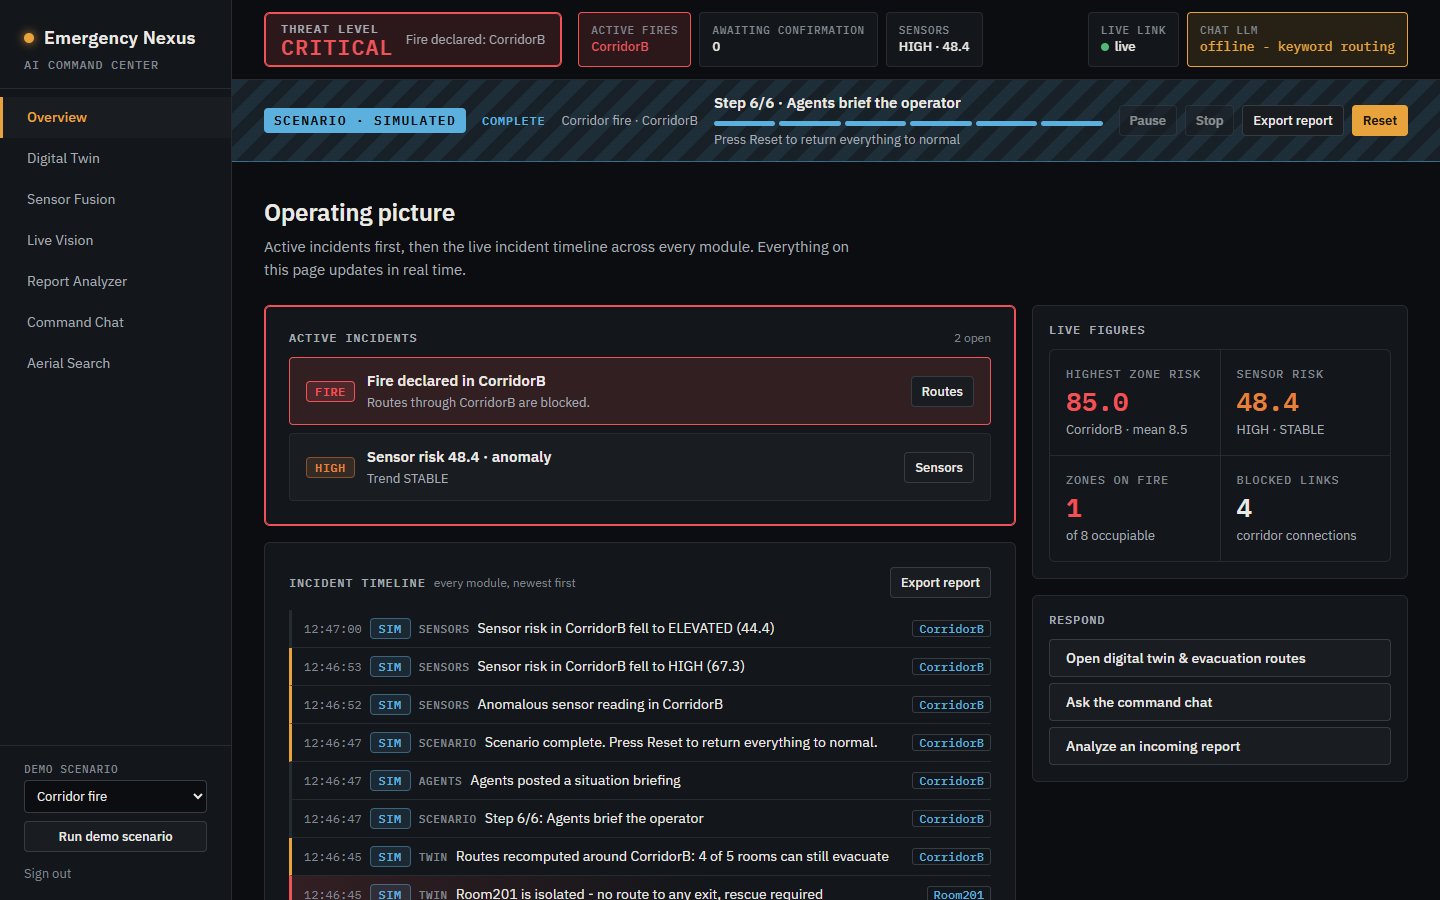
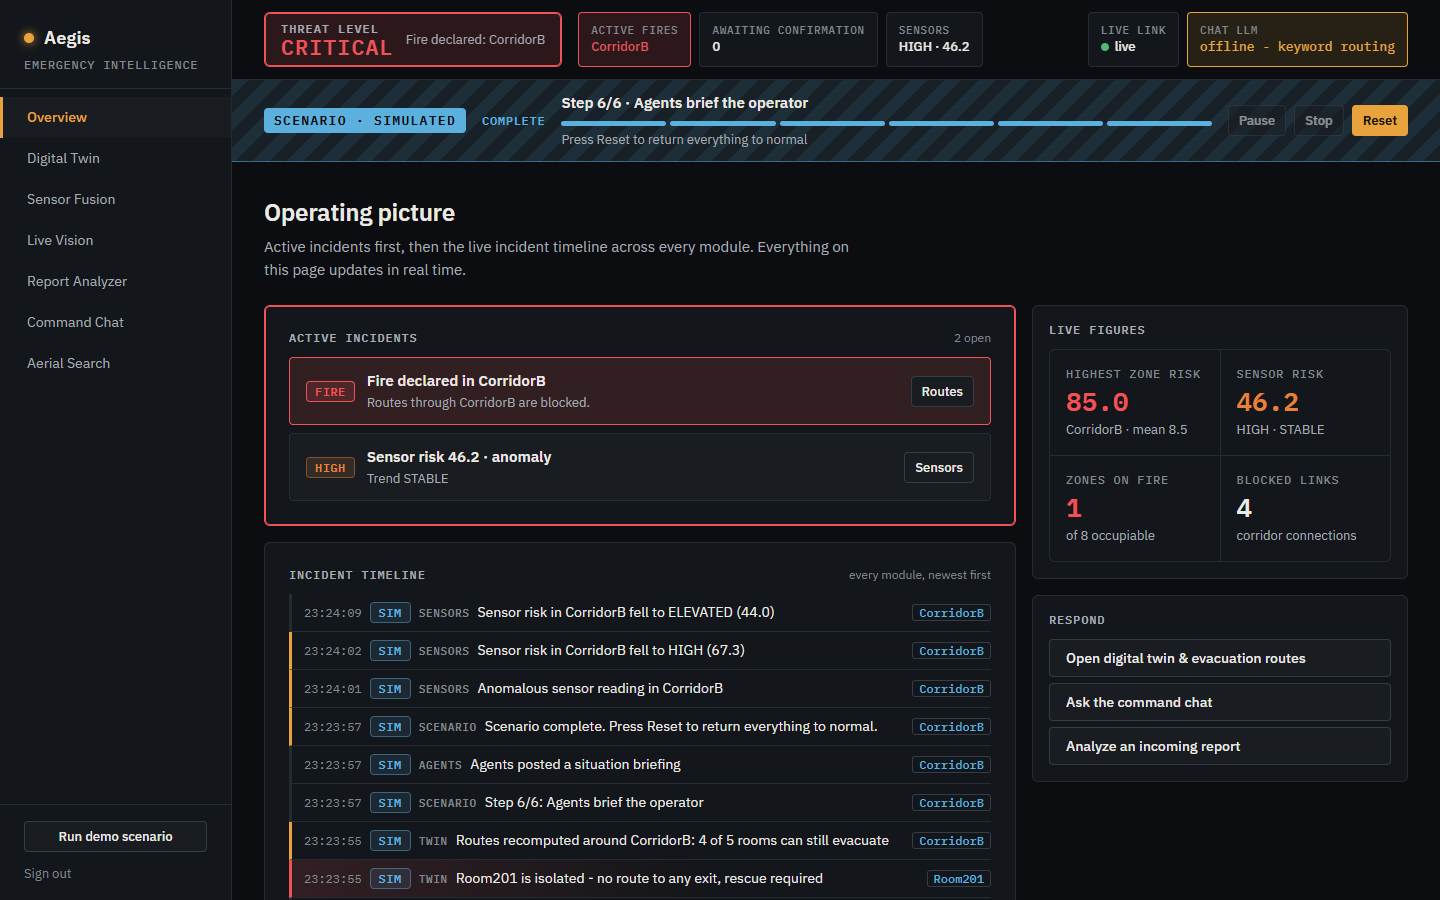
Revert "Rebrand the visible product name to "Emergency Nexus""
This reverts commit 7c1523c374992ac94e7d595c72e5b68953c7fe7b.

diff --git a/command_center/templates/base.html b/command_center/templates/base.html
@@ -3,7 +3,7 @@
 <head>
     <meta charset="utf-8">
     <meta name="viewport" content="width=device-width, initial-scale=1">
-    <title>{% block title %}Emergency Nexus{% endblock %}</title>
+    <title>{% block title %}Aegis Command{% endblock %}</title>
     <link rel="preload" href="{{ url_for('static', filename='fonts/ibm-plex-sans-latin-var.woff2') }}" as="font" type="font/woff2" crossorigin>
     <link rel="stylesheet" href="{{ url_for('static', filename='css/aegis.css') }}">
     <meta name="csrf-token" content="{{ csrf_token() }}">
@@ -40,8 +40,8 @@
 <div class="app">
     <aside class="sidebar" aria-label="Navigation">
         <div class="brand">
-            <div class="brand-mark"><span class="brand-dot" id="brand-dot"></span><h1>Emergency Nexus</h1></div>
-            <div class="brand-sub">AI COMMAND CENTER</div>
+            <div class="brand-mark"><span class="brand-dot" id="brand-dot"></span><h1>Aegis</h1></div>
+            <div class="brand-sub">EMERGENCY INTELLIGENCE</div>
         </div>
         <nav class="nav">
             <a href="/">Overview</a>

diff --git a/command_center/static/css/aegis.css b/command_center/static/css/aegis.css
@@ -1,5 +1,5 @@
 /* ==========================================================================
-   Emergency Nexus - design system
+   Aegis Command - design system
    Dark mission-control: graphite surfaces, amber for interaction/brand.
    RED IS RESERVED FOR DANGER (critical risk, declared fire, blocked routes,
    isolated zones, critical events). Everything else uses neutral, amber or
@@ -169,7 +169,6 @@ a { color: var(--accent); }
     text-transform: uppercase; color: var(--text-dim); display: flex; align-items: center; justify-content: space-between; gap: var(--s2);
 }
 .card-title .hint { font-family: var(--font-sans); text-transform: none; letter-spacing: 0; font-weight: 400; color: var(--text-faint); }
-.card-title .btn { font: 500 var(--fs-sm) var(--font-sans); text-transform: none; letter-spacing: 0; }
 .card.is-danger { border-color: var(--danger); box-shadow: 0 0 0 1px var(--danger) inset; }
 
 /* ---------- stats --------------------------------------------------------------------- */

diff --git a/command_center/templates/login.html b/command_center/templates/login.html
@@ -3,14 +3,14 @@
 <head>
     <meta charset="utf-8">
     <meta name="viewport" content="width=device-width, initial-scale=1">
-    <title>Emergency Nexus - Sign in</title>
+    <title>Aegis Command - Sign in</title>
     <link rel="stylesheet" href="{{ url_for('static', filename='css/aegis.css') }}">
 </head>
 <body>
 <main class="login-page">
     <section class="card login-box" aria-labelledby="login-title">
-        <div class="brand-mark"><span class="brand-dot"></span><h1 id="login-title" style="margin: 0; font-size: var(--fs-lg);">Emergency Nexus</h1></div>
-        <div class="brand-sub">AI COMMAND CENTER</div>
+        <div class="brand-mark"><span class="brand-dot"></span><h1 id="login-title" style="margin: 0; font-size: var(--fs-lg);">Aegis</h1></div>
+        <div class="brand-sub">EMERGENCY INTELLIGENCE</div>
 
         <form method="POST" novalidate>
             <input type="hidden" name="csrf_token" value="{{ csrf_token() }}">

diff --git a/command_center/tests/test_incident_report.py b/command_center/tests/test_incident_report.py
@@ -32,7 +32,7 @@ def section(md, title):
 
 def test_empty_system_report_is_complete_and_says_so(system):
     md = build_incident_report(system)
-    for heading in ("# Emergency Nexus incident report", "## Summary", "## Decisions", "## Caller reports",
+    for heading in ("# AegisAI incident report", "## Summary", "## Decisions", "## Caller reports",
                     "## Evacuation routes (at time of export)", "## Timeline"):
         assert heading in md
     assert "- **Declared fires:** none" in md
@@ -119,9 +119,9 @@ def test_download_is_a_markdown_attachment(client):
     r = client.get("/api/incident-report.md")
     assert r.status_code == 200
     assert r.mimetype == "text/markdown"
-    assert r.headers["Content-Disposition"].startswith('attachment; filename="emergency-nexus-incident-')
+    assert r.headers["Content-Disposition"].startswith('attachment; filename="aegis-incident-')
     assert r.headers["Cache-Control"] == "no-store"
-    assert r.get_data(as_text=True).startswith("# Emergency Nexus incident report")
+    assert r.get_data(as_text=True).startswith("# AegisAI incident report")
 
 
 def test_pages_offer_the_export(client):

diff --git a/aegis_core/incident_report.py b/aegis_core/incident_report.py
@@ -56,8 +56,8 @@ def build_incident_report(system, scenario_state=None, now=None, limit=200):
     pending = system.pending_actions()
     scenario_active = bool(scenario_state and scenario_state.get("active"))
 
-    out = ["# Emergency Nexus incident report", ""]
-    out.append(f"Generated {_stamp(now)} (local time) by the Emergency Nexus command center. "
+    out = ["# AegisAI incident report", ""]
+    out.append(f"Generated {_stamp(now)} (local time) by the AegisAI command center. "
                "Built from the system's own records; no part of this report is written by an AI model "
                "except where a section says so.")
     out.append("")
@@ -152,5 +152,5 @@ def build_incident_report(system, scenario_state=None, now=None, limit=200):
                             md_escape(e["message"]), conf))
     else:
         out.append("No events recorded since the last reset.")
-    out += ["", "---", "", "*Emergency Nexus is a portfolio demonstration, not a certified safety system.*", ""]
+    out += ["", "---", "", "*AegisAI is a portfolio demonstration, not a certified safety system.*", ""]
     return "\n".join(out)

diff --git a/command_center/tests/test_frontend.py b/command_center/tests/test_frontend.py
@@ -32,20 +32,6 @@ def test_pages_share_design_system_and_status_bar(authed, path):
     assert 'id="threat-level"' in html and "js/status.js" in html
 
 
-@pytest.mark.parametrize("path", PAGES)
-def test_pages_show_the_emergency_nexus_brand(authed, path):
-    html = authed.get(path).get_data(as_text=True)
-    assert "<title>Emergency Nexus</title>" in html
-    assert "<h1>Emergency Nexus</h1>" in html and "AI COMMAND CENTER" in html
-    assert ">Aegis<" not in html and "EMERGENCY INTELLIGENCE" not in html
-
-
-def test_login_page_shows_the_brand(client):
-    html = client.get("/login").get_data(as_text=True)
-    assert "<title>Emergency Nexus - Sign in</title>" in html
-    assert ">Emergency Nexus</h1>" in html and "AI COMMAND CENTER" in html
-
-
 def test_login_page_is_self_contained_too(client):
     html = client.get("/login").get_data(as_text=True)
     assert "css/aegis.css" in html and "fonts.googleapis" not in html

diff --git a/command_center/app.py b/command_center/app.py
@@ -279,7 +279,7 @@ def api_incident_report():
     # downloaded as a Markdown file.
     now = time.time()
     body = build_incident_report(system, scenario.state(), now=now)
-    filename = time.strftime("emergency-nexus-incident-%Y%m%d-%H%M%S.md", time.localtime(now))
+    filename = time.strftime("aegis-incident-%Y%m%d-%H%M%S.md", time.localtime(now))
     return Response(body, mimetype="text/markdown", headers={
         "Content-Disposition": f'attachment; filename="{filename}"',
         "Cache-Control": "no-store",
@@ -585,7 +585,7 @@ _broadcaster_thread.start()
 
 
 if __name__ == "__main__":
-    print("Emergency Nexus - AI Command Center")
+    print("AegisAI Command Center")
     if credentials.uses_default_password:
         print(f"Login: {credentials.username} / {security.DEFAULT_PASSWORD}  (local demo default)")
     else:

diff --git a/aegis_core/coordinator.py b/aegis_core/coordinator.py
@@ -540,7 +540,7 @@ if __name__ == "__main__":
 
     init_agents(AegisSystem(BuildingDigitalTwin(), SensorFusionState()))
     active, description = get_llm()
-    print("Emergency Nexus Multi-Agent Command Coordinator (standalone: fresh, empty system state)")
+    print("AegisAI Multi-Agent Command Coordinator (standalone: fresh, empty system state)")
     print(f"LLM: {description}")
     print("Ask questions. The coordinator will consult only the relevant specialist agents. Type 'quit' to exit.\n")
 

diff --git a/README.md b/README.md
@@ -1,14 +1,12 @@
-# Emergency Nexus: AI Command Center for Crisis Response
+# AegisAI
 ### Multimodal emergency intelligence for buildings - detection, fusion, evacuation routing and an agent-driven command chat
 
 [![CI](https://github.com/Aziz-ahmad555/AegisAI/actions/workflows/ci.yml/badge.svg)](https://github.com/Aziz-ahmad555/AegisAI/actions/workflows/ci.yml)
 
-*Formerly codenamed AEGIS; internal package and setting names still use aegis.*
-
 **Live demo: https://aegisai-9aki.onrender.com**
 *Hosted on Render's free tier - if it has been idle, the first load can take up to a minute while it wakes up. Demo login available on request. The hosted version has no camera, so Live Vision is local-only; everything else, including the guided scenario, works.*
 
-Emergency Nexus is a command center that reasons across several signals at once, the way a real campus or smart-building control room would: camera fire/smoke detection, IoT-style sensor telemetry, free-text caller reports and a live digital twin of the building. Evidence is fused into a risk picture, the system *proposes* actions (a human confirms them), evacuation routes recompute around hazards, and a decision agent answers operator questions from live data.
+AegisAI is a command center that reasons across several signals at once, the way a real campus or smart-building control room would: camera fire/smoke detection, IoT-style sensor telemetry, free-text caller reports and a live digital twin of the building. Evidence is fused into a risk picture, the system *proposes* actions (a human confirms them), evacuation routes recompute around hazards, and a decision agent answers operator questions from live data.
 
 ![Guided scenario: sensors rise, the camera confirms smoke, a caller reports fire, the fire is confirmed, routes recompute and the agents brief the operator](docs/images/scenario.gif)
 
@@ -128,14 +126,14 @@ It writes the raw results, including per-class numbers, to [`docs/metrics.json`]
 
 - **How to read it.** Precision is the share of detections that were real. Recall is the share of real objects that were found. F1 = 2PR/(P+R). mAP50 summarises precision and recall over all confidence levels; mAP50-95 also demands tighter boxes. Precision and recall are reported at the confidence level that maximises F1 on each split, not at the app's alert thresholds.
 - **Validation vs test.** Training picked the best checkpoint on the validation split, so validation numbers lean optimistic. The **test split was never used during training** - that's the honest number. The validation results reproduce the figures recorded when the models were trained: fire/smoke mAP50 0.576; aerial precision 0.784, recall 0.512, mAP50 0.572 in the final-epoch training log.
-- **Why "not measured".** Tracking and fall detection use stock COCO-pretrained Ultralytics weights plus Emergency Nexus's own logic: ByteTrack thresholds, and a posture rule on pose keypoints. This repo has no labelled video or fall/no-fall set to score them on. Ultralytics' published COCO benchmark measures the stock detector on COCO, not this pipeline, so it isn't quoted as if it were.
+- **Why "not measured".** Tracking and fall detection use stock COCO-pretrained Ultralytics weights plus AegisAI's own logic: ByteTrack thresholds, and a posture rule on pose keypoints. This repo has no labelled video or fall/no-fall set to score them on. Ultralytics' published COCO benchmark measures the stock detector on COCO, not this pipeline, so it isn't quoted as if it were.
 - **Weak classes.** In the aerial model, `Running` has 0 recall on both splits: it is never detected, and its precision of 1.0 only means it made no predictions at all. `laying_down` is the strongest class, with recall 0.85-0.88, which is the pose that matters most for finding injured people.
 
-### What these numbers mean for Emergency Nexus
+### What these numbers mean for AEGIS
 
 - **Nothing a model sees changes the building on its own.** A camera detection only creates a *proposal* ("declare fire in Room201?"), and an operator must confirm it before the digital twin, routes or agents treat it as a fire. The numbers above are why that gate exists.
-- **Fire/smoke: an early-warning input, not an alarm.** Test recall of 0.409 means the camera misses more than half of the labelled fire/smoke regions in unseen images, and a 44-image test set is too small to pin that down precisely. Emergency Nexus therefore fuses the camera with sensor telemetry, where agreement between the two raises the risk score. The camera is never the only line of defence, and a real building's certified fire alarm remains the authority.
-- **Aerial recall of 0.512 (0.501 on test) is acceptable only with human confirmation.** The model finds about half of the people in an aerial image. Its precision of about 0.78 means most of what it marks is a real person, so each detection is a useful lead for a human searcher. But a missed person is the most dangerous error in search and rescue, and roughly one in two is missed. So Emergency Nexus presents aerial detections as leads for an operator to check, never as a head count and never as "area clear". A human reviews every image, and the absence of a detection proves nothing.
+- **Fire/smoke: an early-warning input, not an alarm.** Test recall of 0.409 means the camera misses more than half of the labelled fire/smoke regions in unseen images, and a 44-image test set is too small to pin that down precisely. AEGIS therefore fuses the camera with sensor telemetry, where agreement between the two raises the risk score. The camera is never the only line of defence, and a real building's certified fire alarm remains the authority.
+- **Aerial recall of 0.512 (0.501 on test) is acceptable only with human confirmation.** The model finds about half of the people in an aerial image. Its precision of about 0.78 means most of what it marks is a real person, so each detection is a useful lead for a human searcher. But a missed person is the most dangerous error in search and rescue, and roughly one in two is missed. So AEGIS presents aerial detections as leads for an operator to check, never as a head count and never as "area clear". A human reviews every image, and the absence of a detection proves nothing.
 - **What would change this.** More and more varied training data, especially low-light fire, aerial `Running` and small distant people. Also an evaluation set recorded in the target environment, and labelled video to finally measure tracking and fall detection. Retraining is deliberately out of scope for now; see [ROADMAP.md](ROADMAP.md).
 
 ---
@@ -255,7 +253,7 @@ GitHub Actions runs ruff and the full suite on every push, using the cloud requi
 
 ## Future work
 
-**Emergency Nexus v1.0 is feature-complete.** None of the items below exist yet; they are documented here and in [ROADMAP.md](ROADMAP.md) as future work.
+**AEGIS v1.0 is feature-complete.** None of the items below exist yet; they are documented here and in [ROADMAP.md](ROADMAP.md) as future work.
 
 **System**
 - **Per-room people tracking.** Keep trapped/occupant counts per zone, so the Medical agent and route priority can use them. Today, people counts come only from individual caller reports.
